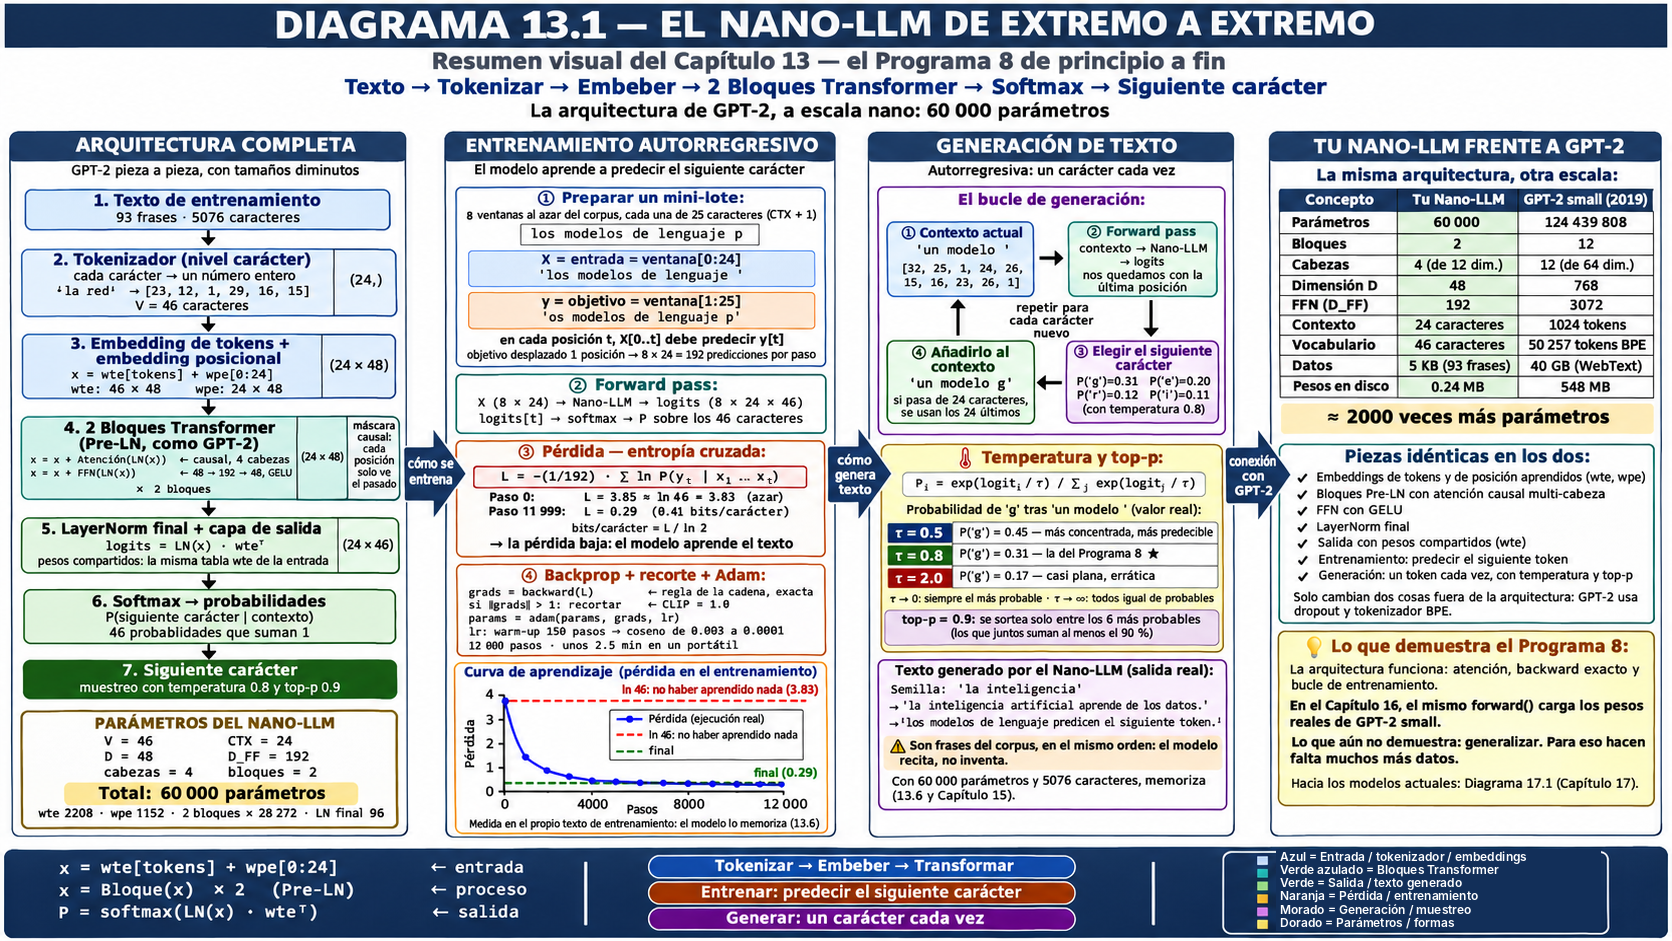
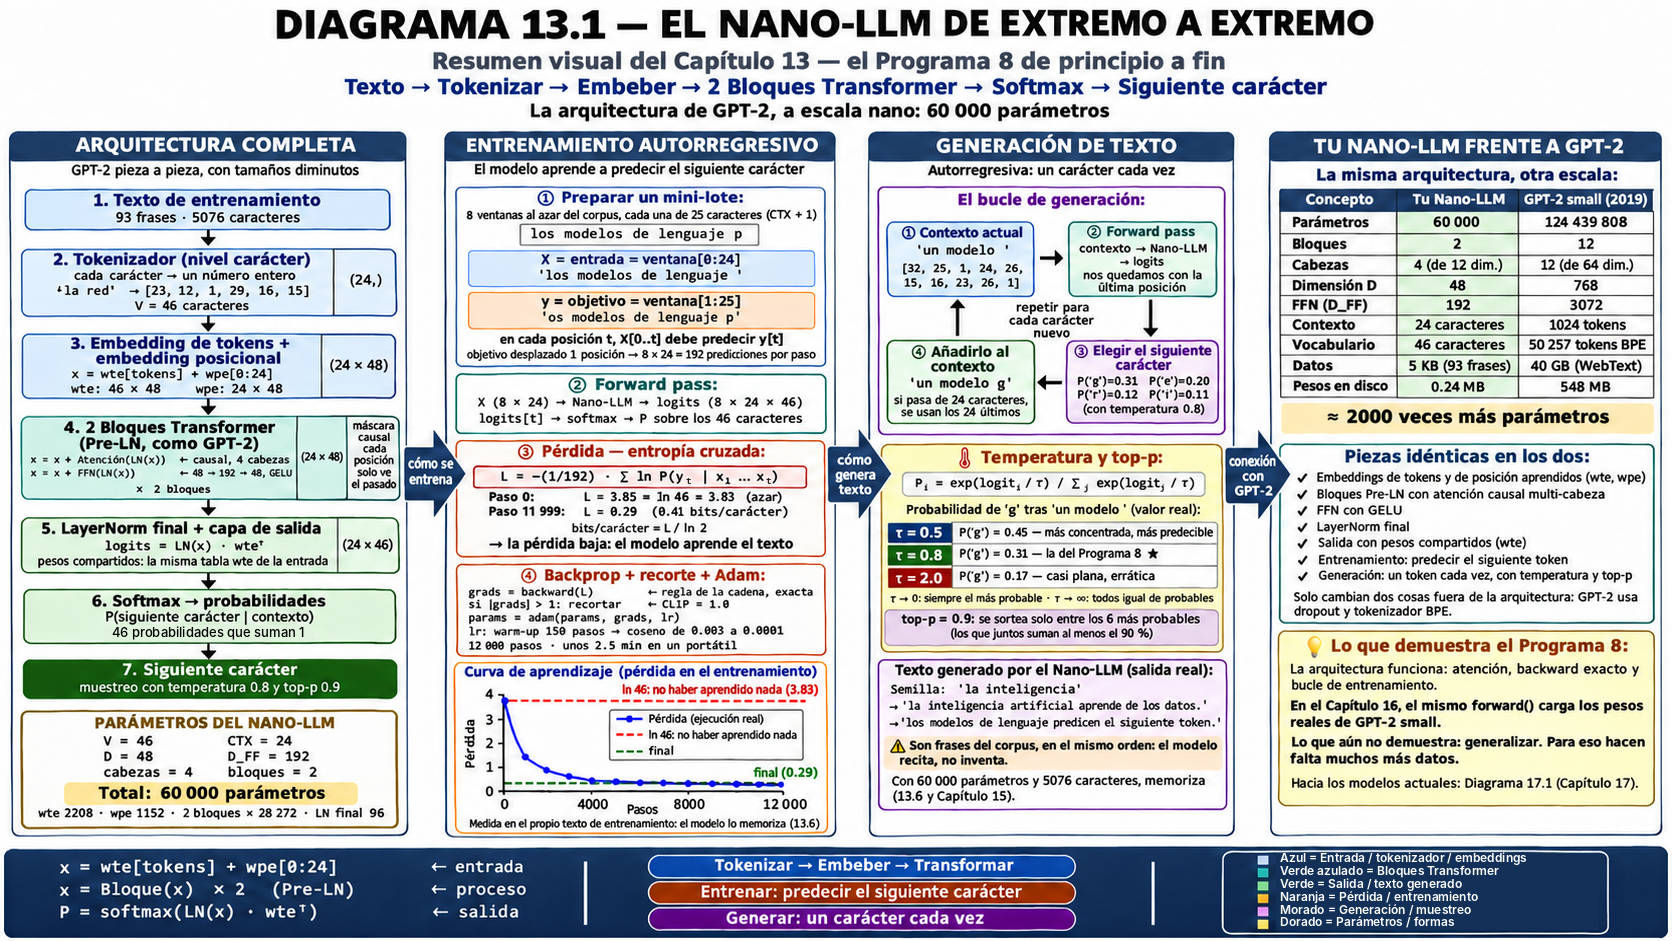
Diagrama 13.1: segunda versión del autor (cabecera corregida) con tres erratas corregidas
Claude-Session: https://claude.ai/code/session_01JgEXA5SMfwVsRQFWykXSto

diff --git a/diagramas/scripts/fix_d13_1_d17_1.py b/diagramas/scripts/fix_d13_1_d17_1.py
@@ -2,7 +2,9 @@
 """Diagramas 13.1 y 17.1 regenerados por el autor (4-11-2026) con los prompts nuevos: tres erratas de la
 ilustración, corregidas sobre la imagen (originales en diagramas/originales/*_autor_2026-11-04.png).
 
-13.1  · Fórmula de la pérdida: «P(y₁ | x₁ … x₁)» → «P(yₜ | x₁ … xₜ)» (los subíndices t, como en 13.3).
+13.1  (segunda versión del autor, d13_1_autor_2026-11-04b.png, con la cabecera corregida)
+      · Paso 6: «46 probabiidades que suman 1» → «46 probabilidades que suman 1».
+      · Fórmula de la pérdida: «P(y₁ | x₁ … x₁)» → «P(yₜ | x₁ … xₜ)» (los subíndices t, como en 13.3).
       · Leyenda: «Trantformer» y «Geneneción», y los nombres de los colores en inglés → leyenda en español,
         como la del Diagrama 17.1.
 17.1  · «un modelo de solo 57 000 parámetros» → «58 000», como en el texto de 17.x (el Programa RZ-2 tiene
@@ -11,6 +13,7 @@ from PIL import Image, ImageDraw, ImageFont
 
 D = 'originales/'
 INTER_SB = '/usr/share/fonts/opentype/inter/Inter-SemiBold.otf'
+INTER_M = '/usr/share/fonts/opentype/inter/Inter-Medium.otf'
 MONO_B = '/usr/share/fonts/truetype/dejavu/DejaVuSansMono-Bold.ttf'
 SANS = '/usr/share/fonts/truetype/dejavu/DejaVuSans.ttf'
 
@@ -21,18 +24,27 @@ def texto_en(draw, x, y_centro, s, fuente, color):
 
 
 # ---------------------------------------------------------------- 13.1
-im = Image.open(D + 'd13_1_autor_2026-11-04.png').convert('RGB')
+im = Image.open(D + 'd13_1_autor_2026-11-04b.png').convert('RGB')
 dr = ImageDraw.Draw(im)
-fondo_formula, tinta = (252, 238, 237), (38, 31, 30)
+# paso 6: la línea entera, centrada donde estaba y con el mismo ancho
+dr.rectangle((104, 625, 313, 641), fill=(224, 244, 221))
+linea = '46 probabilidades que suman 1'
+tam = 8
+while ImageFont.truetype(INTER_M, tam + 1).getlength(linea) <= 199:
+    tam += 1
+f6 = ImageFont.truetype(INTER_M, tam)
+b = dr.textbbox((0, 0), linea, font=f6)
+dr.text((208 - (b[0] + b[2]) / 2, 637 - b[3] + (b[3] - dr.textbbox((0, 0), '4', font=f6)[3])), linea, font=f6, fill=(0, 0, 0))
+fondo_formula, tinta = (252, 236, 234), (38, 31, 30)
 sub = ImageFont.truetype(MONO_B, 9)
-for x0, x1 in ((685, 692), (766, 773)):            # subíndice de y y del último x
+for x0, x1 in ((685, 691), (765, 771)):            # subíndice de y y del último x
     dr.rectangle((x0, 477, x1, 485), fill=fondo_formula)
     b = dr.textbbox((0, 0), 't', font=sub)
     dr.text(((x0 + x1) / 2 - (b[0] + b[2]) / 2, 484 - b[3]), 't', font=sub, fill=tinta)
-navy, blanco = (18, 47, 89), (255, 255, 255)
-dr.rectangle((1276, 849, 1600, 930), fill=navy)
+navy, blanco = (18, 48, 88), (255, 255, 255)
+dr.rectangle((1276, 853, 1598, 929), fill=navy)
 f = ImageFont.truetype(INTER_SB, 12)
-for yc, s in zip((858, 871, 884, 897, 910, 923),
+for yc, s in zip((859, 871.5, 884.5, 897.5, 910, 922.5),
                  ('Azul = Entrada / tokenizador / embeddings', 'Verde azulado = Bloques Transformer',
                   'Verde = Salida / texto generado', 'Naranja = Pérdida / entrenamiento',
                   'Morado = Generación / muestreo', 'Dorado = Parámetros / formas')):
